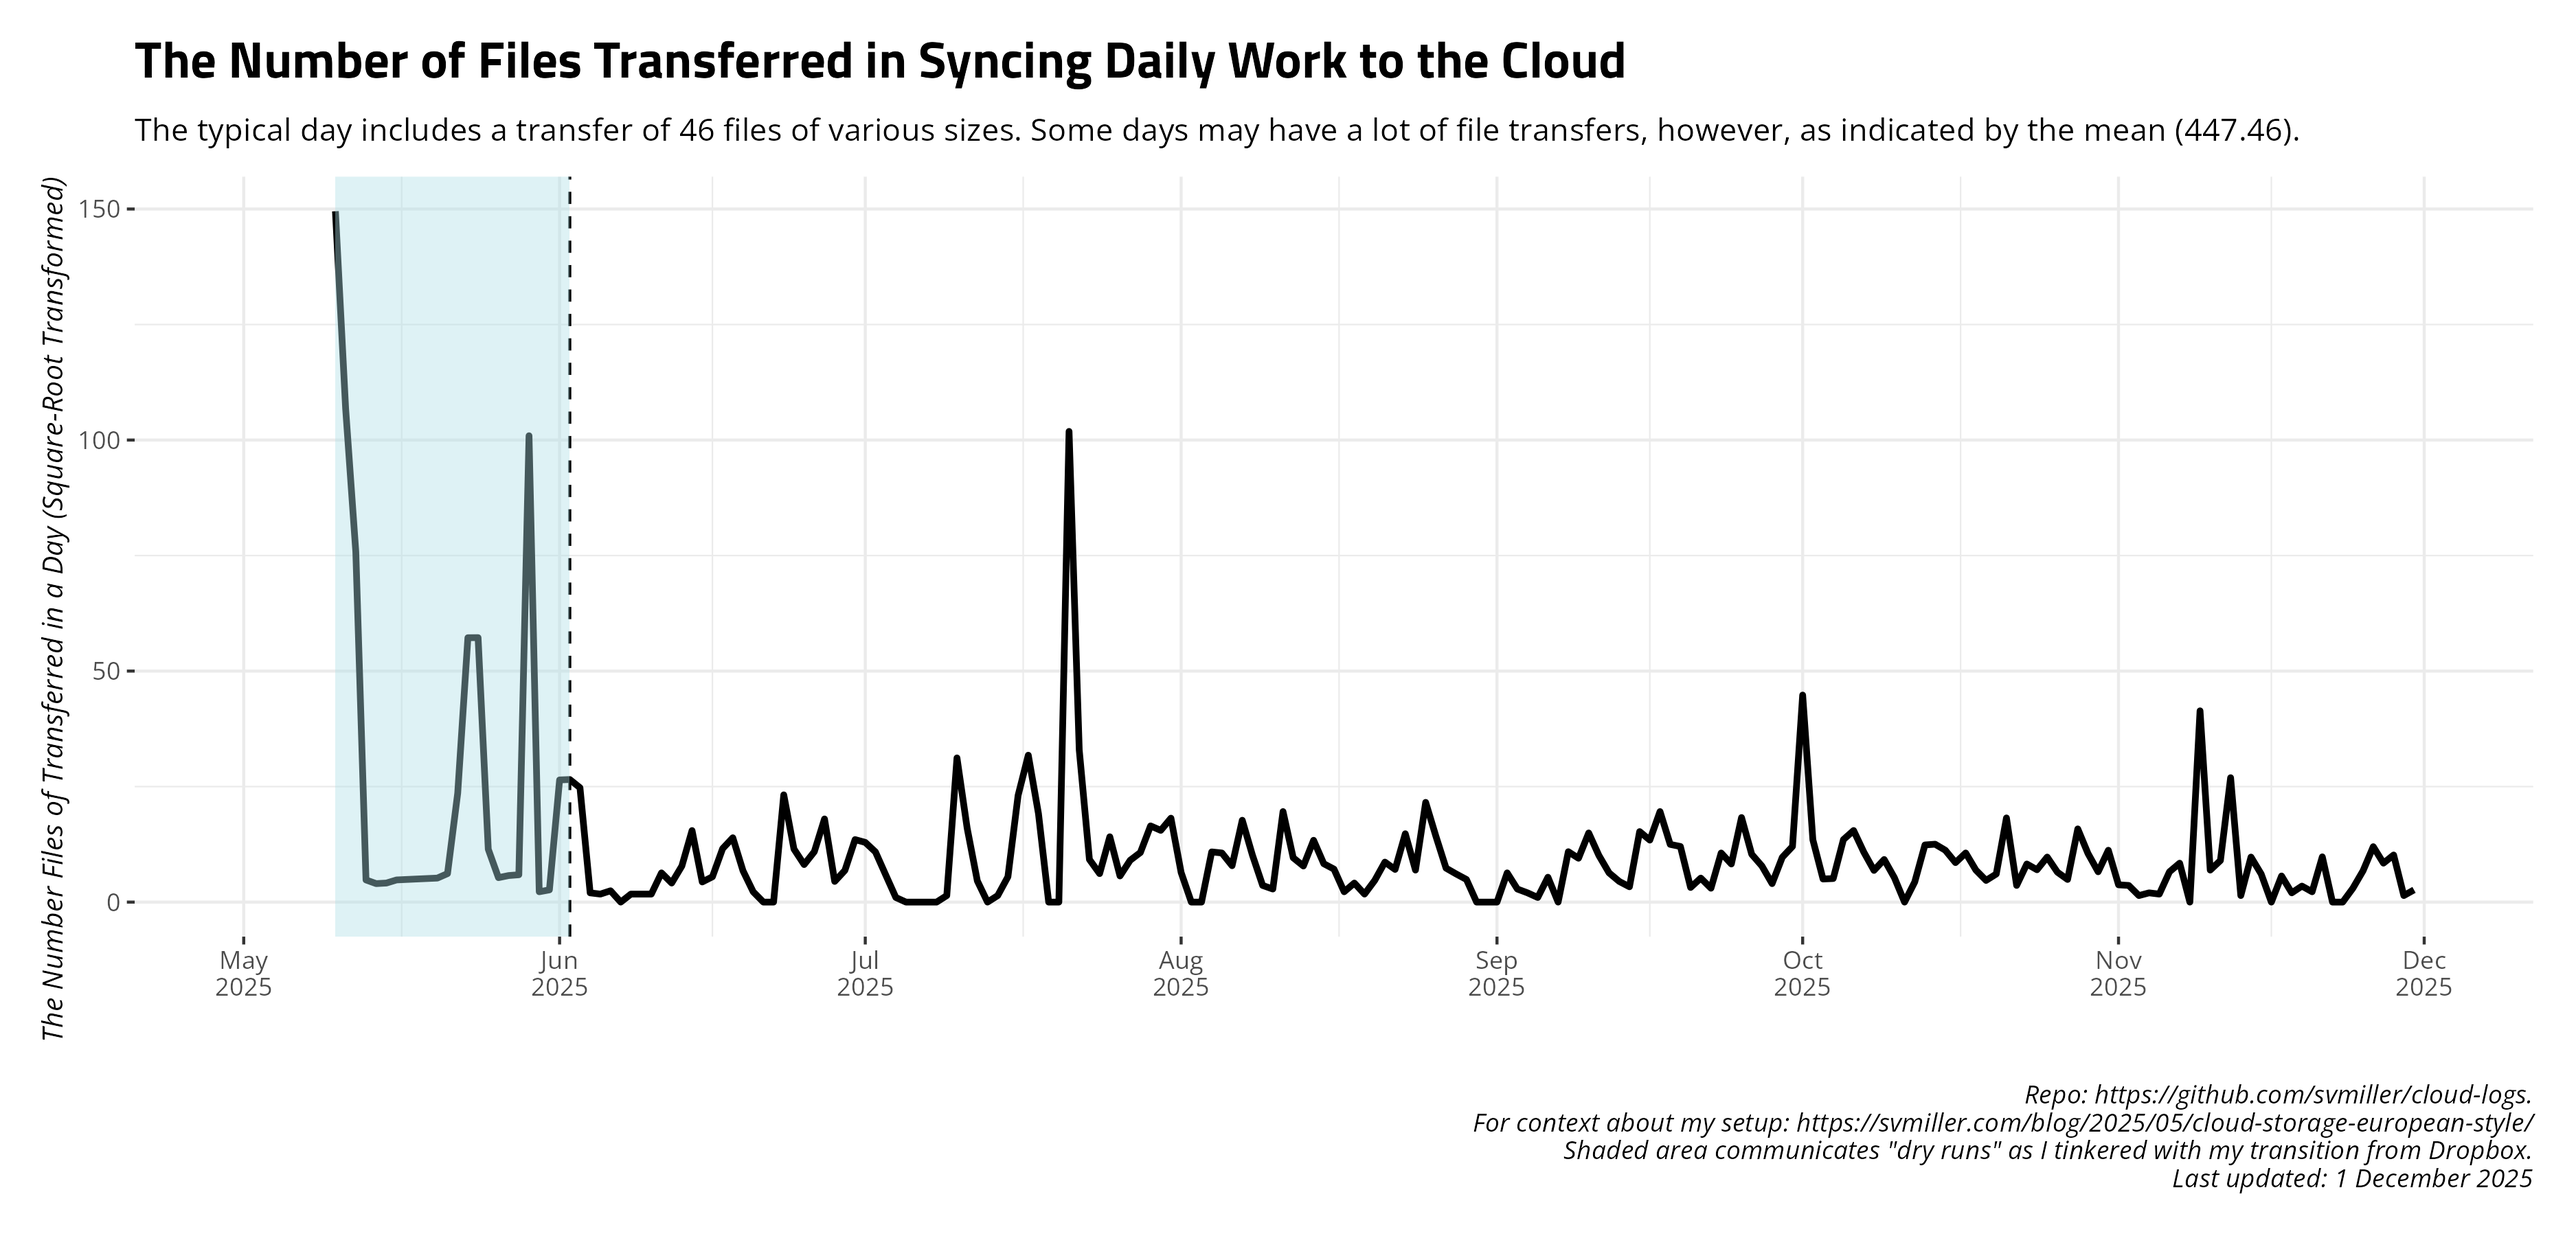
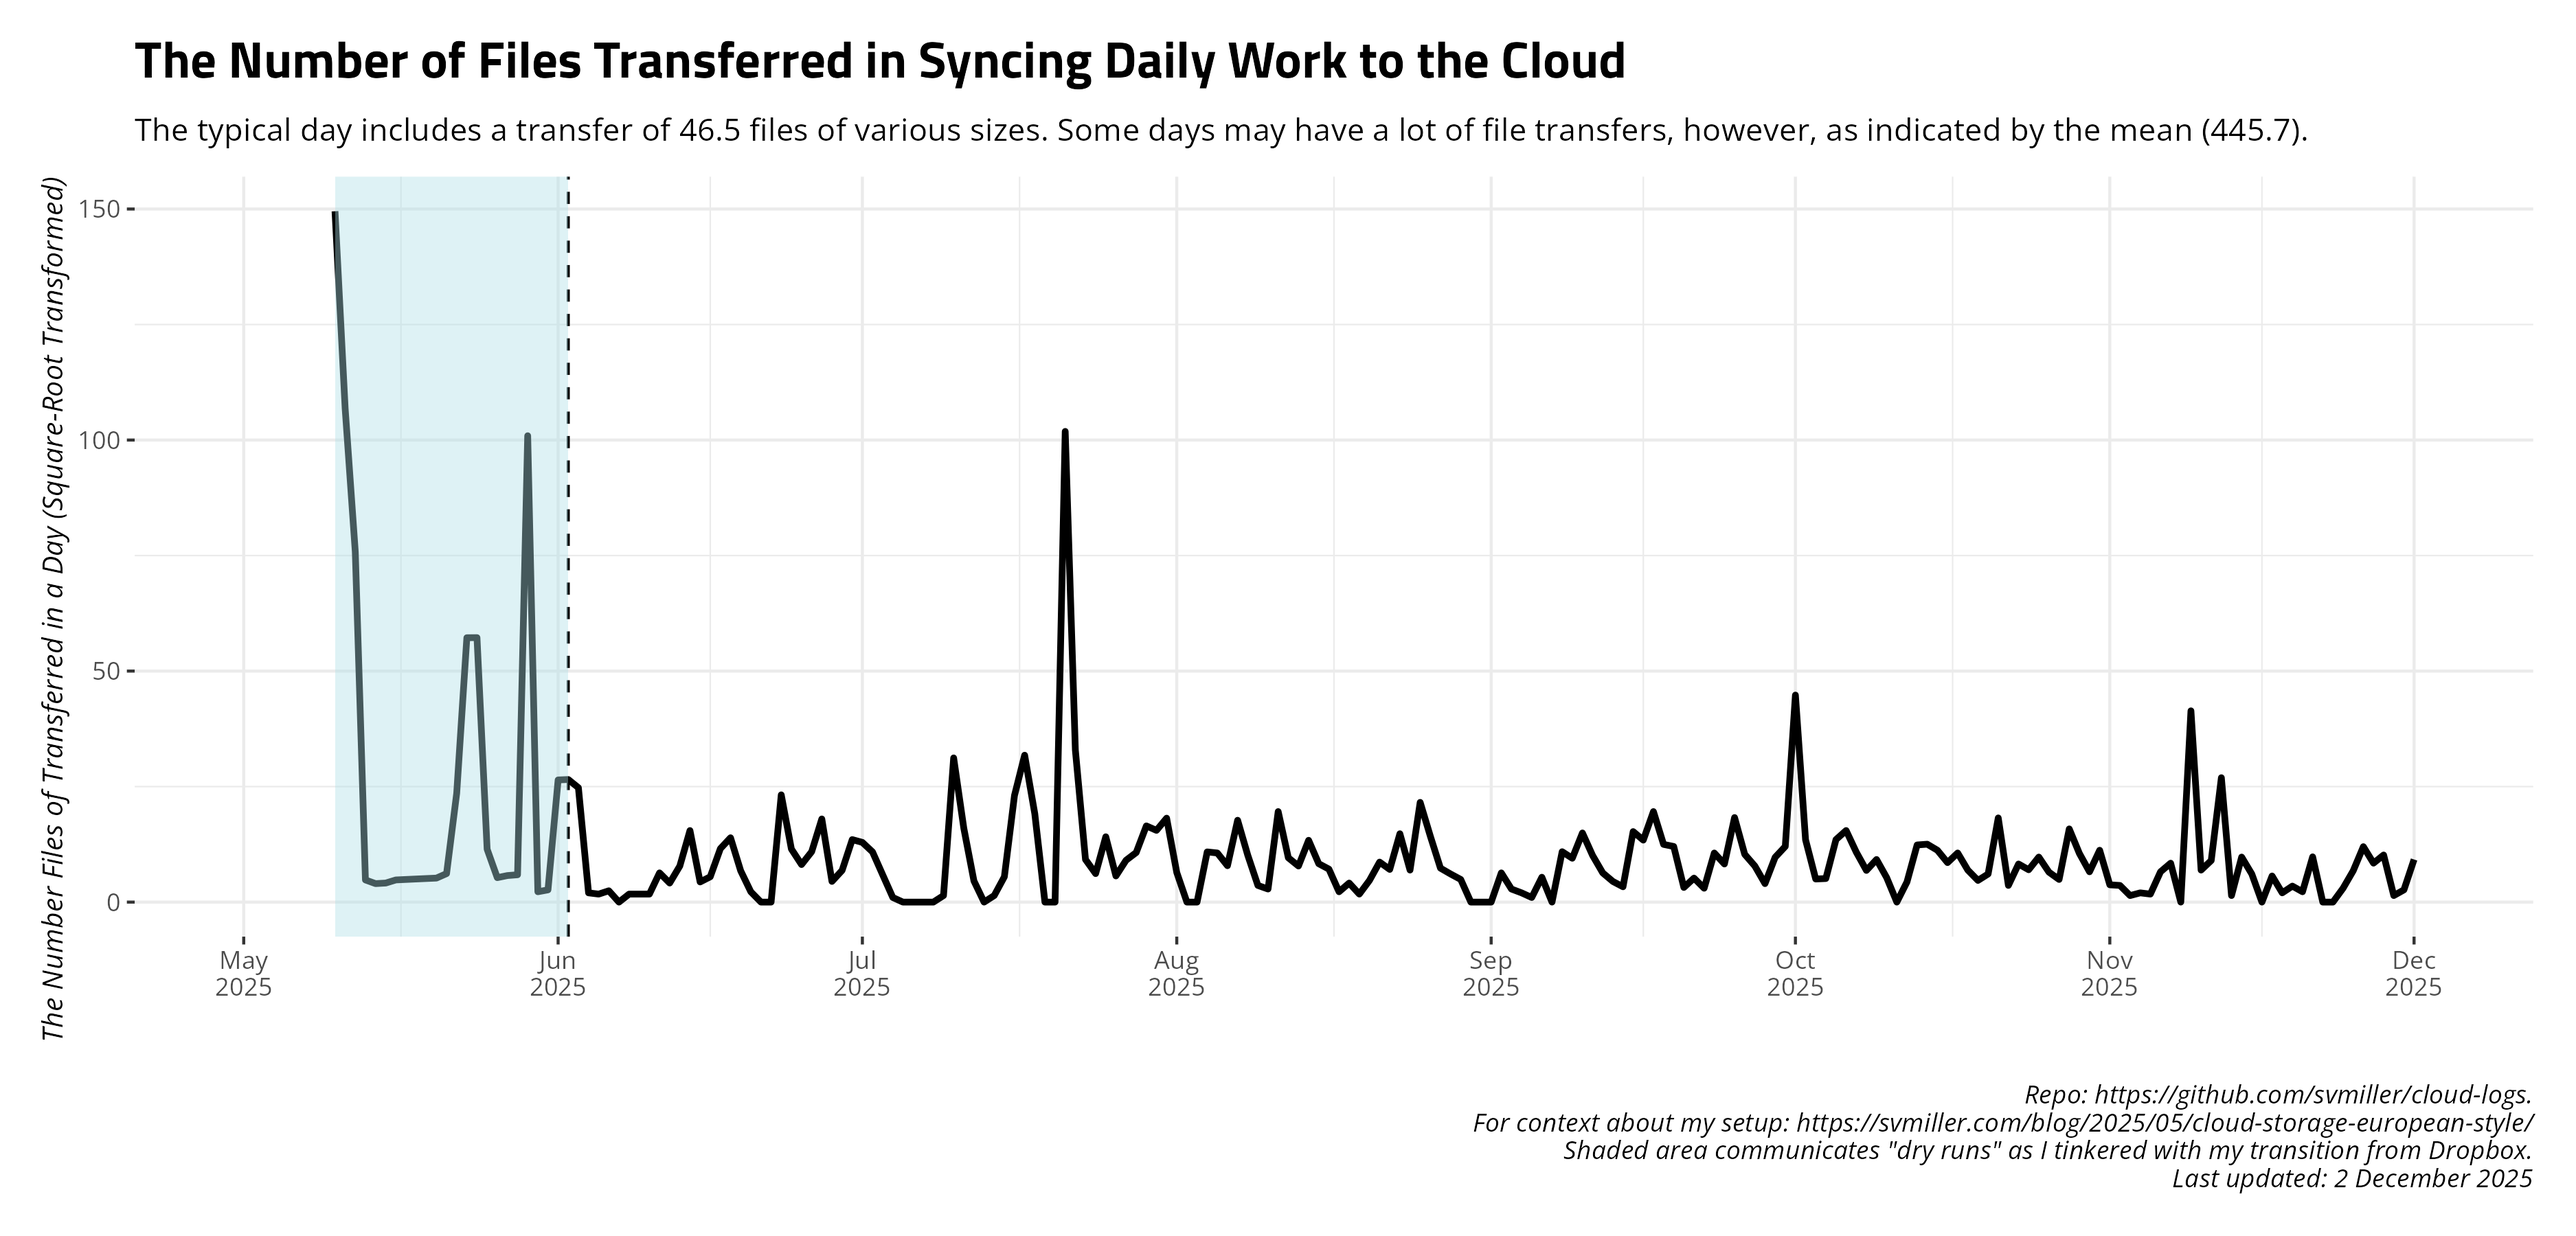
Date: 2025-12-02 09:00:18. Hi mom!

diff --git a/README.md b/README.md
@@ -27,17 +27,17 @@ and uploads to Github.
     #> # A tibble: 14 × 4
     #>    date       ftransfer stransfer   elapsed
     #>    <date>         <dbl> <chr>       <chr>  
-    #>  1 2025-11-17        32 359.220 KiB 4m54.7s
-    #>  2 2025-11-18         4 1.671 MiB   4m58.9s
-    #>  3 2025-11-19        12 3.454 MiB   4m58.5s
-    #>  4 2025-11-20         5 289.079 KiB 4m51.0s
-    #>  5 2025-11-21        96 19.696 MiB  4m13.3s
-    #>  6 2025-11-22         0 <NA>        4m57.3s
-    #>  7 2025-11-23         0 <NA>        4m58.4s
-    #>  8 2025-11-24         9 381.388 KiB 4m58.9s
-    #>  9 2025-11-25        46 877.675 KiB 4m57.2s
-    #> 10 2025-11-26       144 2.174 MiB   4m11.5s
-    #> 11 2025-11-27        71 85.606 MiB  4m41.6s
-    #> 12 2025-11-28       104 5.950 MiB   4m45.0s
-    #> 13 2025-11-29         2 3.240 KiB   5m0.7s 
-    #> 14 2025-11-30         7 58.153 KiB  4m59.8s
+    #>  1 2025-11-18         4 1.671 MiB   4m58.9s
+    #>  2 2025-11-19        12 3.454 MiB   4m58.5s
+    #>  3 2025-11-20         5 289.079 KiB 4m51.0s
+    #>  4 2025-11-21        96 19.696 MiB  4m13.3s
+    #>  5 2025-11-22         0 <NA>        4m57.3s
+    #>  6 2025-11-23         0 <NA>        4m58.4s
+    #>  7 2025-11-24         9 381.388 KiB 4m58.9s
+    #>  8 2025-11-25        46 877.675 KiB 4m57.2s
+    #>  9 2025-11-26       144 2.174 MiB   4m11.5s
+    #> 10 2025-11-27        71 85.606 MiB  4m41.6s
+    #> 11 2025-11-28       104 5.950 MiB   4m45.0s
+    #> 12 2025-11-29         2 3.240 KiB   5m0.7s 
+    #> 13 2025-11-30         7 58.153 KiB  4m59.8s
+    #> 14 2025-12-01        85 15.170 MiB  4m53.8s
